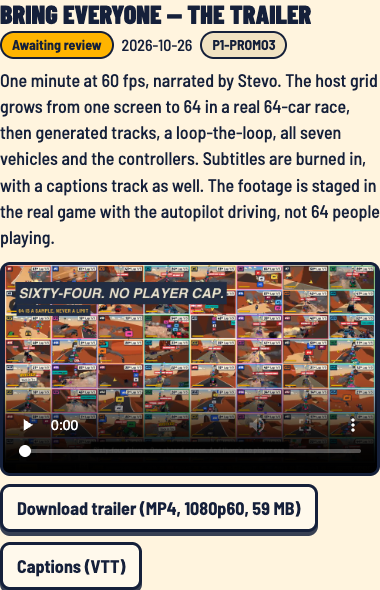
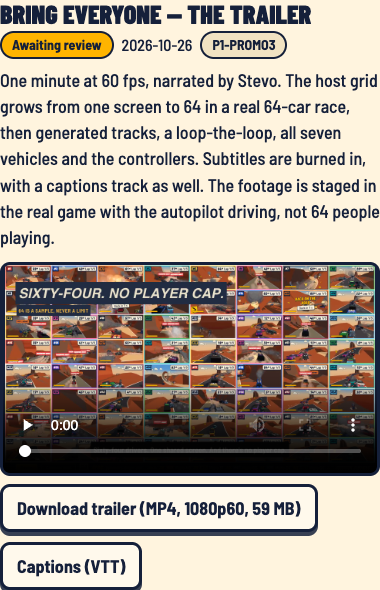
P1-PROMO3 br-r1ma.3 R141: no rival name badges over a race; re-cut trailer
Owner 26 Oct: no name badges floating over the race; derby only, to tell
cars apart in the melee. world.nameplatesOn follows the room's mode, so
only a derby draws nameplates (grid tiles and the arena Overview); race
tiles, practice and replays draw none. Recorded as R141 (amends P1-R13's
nameplate acceptance). The R13 journey checks rings in a derby room via the
real Camera button; the synthetic 1/4/24-tile check asserts none outside a
derby.

Trailer re-cut on the fixed build (grow and race shots recaptured, all else
kept): bring-everyone-stevo-7454d16b.mp4, 1080p60, no repeated frames in
motion. The keyboard insert is a fresh lobby capture served as
jammers.dilger.dev instead of a journey frame showing 127.0.0.1.

Agent: RedLeopard

Changed region(s): [[0.0, 0.4271, 0.9842, 0.7627], [0.6947, 0.7322, 0.7237, 0.7627]]

diff --git a/art/ui/poc/index.html b/art/ui/poc/index.html
@@ -47,12 +47,12 @@
       <article data-entry="promo-stevo">
         <h3>Bring everyone — the trailer</h3>
         <p class="why" id="promo-stevo-note">One minute at 60 fps, narrated by Stevo. The host grid grows from one screen to 64 in a real 64-car race, then generated tracks, a loop-the-loop, all seven vehicles and the controllers. Subtitles are burned in, with a captions track as well. The footage is staged in the real game with the autopilot driving, not 64 people playing.</p>
-        <video class="promo-player" controls playsinline preload="none" width="1920" height="1080" poster="./promo/bring-everyone-stevo-a8d821e0.jpg" aria-label="Bring everyone trailer" aria-describedby="promo-stevo-note">
-          <source src="./promo/bring-everyone-stevo-a8d821e0.mp4" type="video/mp4">
-          <track kind="captions" src="./promo/bring-everyone-stevo-a8d821e0.vtt" srclang="en" label="English">
-          <p>Your browser cannot play this video. <a href="./promo/bring-everyone-stevo-a8d821e0.mp4">Download the MP4</a> to watch it.</p>
+        <video class="promo-player" controls playsinline preload="none" width="1920" height="1080" poster="./promo/bring-everyone-stevo-7454d16b.jpg" aria-label="Bring everyone trailer" aria-describedby="promo-stevo-note">
+          <source src="./promo/bring-everyone-stevo-7454d16b.mp4" type="video/mp4">
+          <track kind="captions" src="./promo/bring-everyone-stevo-7454d16b.vtt" srclang="en" label="English">
+          <p>Your browser cannot play this video. <a href="./promo/bring-everyone-stevo-7454d16b.mp4">Download the MP4</a> to watch it.</p>
         </video>
-        <div class="links"><a href="./promo/bring-everyone-stevo-a8d821e0.mp4" download>Download trailer (MP4, 1080p60, 59 MB)</a> <a href="./promo/bring-everyone-stevo-a8d821e0.vtt" download>Captions (VTT)</a></div>
+        <div class="links"><a href="./promo/bring-everyone-stevo-7454d16b.mp4" download>Download trailer (MP4, 1080p60, 59 MB)</a> <a href="./promo/bring-everyone-stevo-7454d16b.vtt" download>Captions (VTT)</a></div>
       </article>
       <article data-entry="promo-picture">
         <h3>Bring everyone — earlier picture draft</h3>

diff --git a/web/host/src/render/world.ts b/web/host/src/render/world.ts
@@ -187,6 +187,9 @@ export class World {
   /** Called with the grid's layout (device pixels) and the device pixel ratio when the tiles move. */
   onLayout: (layout: Layout | null, dpr: number) => void = () => {};
   onNameplates: (points: NameplatePoint[]) => void = () => {};
+  /** Rival nameplates (P1-R13) float only in a derby, to tell cars apart in the melee (R141: no badges
+   *  floating over a race). The room sets it from the round's mode. */
+  nameplatesOn = false;
   private nameplatePoints: NameplatePoint[] = [];
   map: MapRenderer | null = null;
   /** P1-C10: the practice courses (`round/practice`), drawn from each snapshot's practice trailer far from the round's map.
@@ -672,7 +675,7 @@ export class World {
       r.setViewport(0, 0, st.width, st.height);
       this.launchCallouts.fit(this.camera);
       this.backend.render(this.scene, this.camera, this.replayCamera || fly ? undefined : { hazeBeyond: this.overviewDepth });
-      if (!fly) this.nameplates(s, this.camera, { x: 0, y: 0, w: st.width, h: st.height }, 0, -1, overview);
+      if (!fly && this.nameplatesOn) this.nameplates(s, this.camera, { x: 0, y: 0, w: st.width, h: st.height }, 0, -1, overview);
       st.lods = [lod];
     }
     st.frames++;
@@ -777,7 +780,7 @@ export class World {
       }
       this.launchCallouts.fit(cam);
       this.backend.render(this.scene, cam);
-      this.nameplates(s, cam, t, t.seat, i);
+      if (this.nameplatesOn) this.nameplates(s, cam, t, t.seat, i);
       if (mode === 'fp' && i >= 0) {
         // Segmented first person: the rear-view mirror in its strip of the tile (rects are fractions, top-down).
         const M = CAMERA.firstPerson.mirror;

diff --git a/web/host/src/main.ts b/web/host/src/main.ts
@@ -370,6 +370,7 @@ async function boot(): Promise<void> {
     }
     // The page knows the round's phase (the input drawer folds away while racing so it covers no tile).
     document.body.dataset.jjPhase = room.phase;
+    world.nameplatesOn = room.mode === 'derby';
     // In a room the grid's tiles are the seated cars in seat-number order: a car withdrawn by Leave or Sit out stays in
     // the world as scenery but loses its tile, so the grid reflows (G02).
     if (world.tiles?.auto) {

diff --git a/tools/promo/render-stevo.py b/tools/promo/render-stevo.py
@@ -70,6 +70,7 @@ def main():
     ap.add_argument('--roster', type=Path, required=True)
     ap.add_argument('--voice', type=Path, required=True, help='Directory holding promo3-manifest.json and its takes')
     ap.add_argument('--controllers', type=Path, default=Path('/tmp/jj-promo-crowd-reviewed-f3c175d9'))
+    ap.add_argument('--keyboard', type=Path, default=Path('/tmp/jj-promo3-keyboard/controllers-menu.jpg'), help='capture-keyboard.mjs: the host Controllers panel with a keyboard player seated')
     ap.add_argument('--engine', type=Path, default=Path('/tmp/jj-promo-engine.wav'))
     ap.add_argument('--out', type=Path, default=ROOT / 'art/ui/poc/promo')
     ap.add_argument('--name', default='bring-everyone-stevo')
@@ -157,8 +158,8 @@ def main():
 
         # 7. The actual controller pages.
         def controllers(d):
-            for f in ['controller-phone.jpg', 'controller-pad-phone.jpg', 'controller-keyboard.jpg']:
-                seg(f[:-4], args.controllers / f, d / 3, still=True)
+            for name, f in [('phone', args.controllers / 'controller-phone.jpg'), ('pad', args.controllers / 'controller-pad-phone.jpg'), ('keyboard', args.keyboard)]:
+                seg(name, f, d / 3, still=True)
         scene('controllers', controllers, minimum=6.0)
 
         # 8. End card over the full 64-car grid.
@@ -238,7 +239,7 @@ def main():
         'fps': FPS, 'size': [W, H], 'voice': {k: manifest[k] for k in ['canonical_voice_id', 'pack_sha256', 'engine', 'api_cost_usd']},
         'cues': [{'start': round(a, 3), 'end': round(sub_end[s], 3), 'id': s, 'text': scenes[s]['text']} for a, s in sorted(cues)],
         'titles': [{'start': round(a, 3), 'end': round(b, 3), 'title': ti, 'label': la} for a, b, ti, la in titles],
-        'sources': {'grow': grow, 'loop': json.loads((args.loop / 'capture.json').read_text()), 'tracks': tracks, 'roster': sorted(roster), 'controllers': str(args.controllers)},
+        'sources': {'grow': grow, 'loop': json.loads((args.loop / 'capture.json').read_text()), 'tracks': tracks, 'roster': sorted(roster), 'controllers': str(args.controllers), 'keyboard': digest(args.keyboard)},
         'music': 'assets/audio/music/race-2.ogg', 'engine': digest(args.engine),
     }
     (args.out / f'{args.name}-{short}.json').write_text(json.dumps(receipt, indent=2) + '\n')

diff --git a/docs/evidence/P1-PROMO3/self-review.md b/docs/evidence/P1-PROMO3/self-review.md
@@ -4,8 +4,8 @@ br-r1ma.3. Owner direction 25–26 Oct: race-led, the free shared Stevo voice, v
 generated tracks, a loop-the-loop, all seven vehicles, then "dynamically adding screens from 1 all the way to 64,
 stopping at a few tweened, nice points to narrate", "rendered at 60fps with no lag", published on the POC page.
 
-Trailer: `art/ui/poc/promo/bring-everyone-stevo-a8d821e0.mp4` (58.76 s, 1920×1080, H.264 High 60/1 fps, AAC 48 kHz,
-faststart, 61.8 MB), poster `.jpg`, captions `.vtt`, edit receipt `.json`, cadence receipt `-cadence.json`.
+Trailer: `art/ui/poc/promo/bring-everyone-stevo-7454d16b.mp4` (58.76 s, 1920×1080, H.264 High 60/1 fps, AAC 48 kHz,
+faststart, 61.3 MB), poster `.jpg`, captions `.vtt`, edit receipt `.json`, cadence receipt `-cadence.json`.
 Watch: https://jammers-preview.dilger.dev/poc/#g-promo
 
 ## What it shows, and how it was made
@@ -17,7 +17,7 @@ Watch: https://jammers-preview.dilger.dev/poc/#g-promo
 | 24–30 s | Four generated biomes: dirt, bitumen, town, rocks | `capture-tracks.mjs`, `jj procgen --recipe` |
 | 30–36 s | A car carried round a generated loop (the host camera cuts to its side view) | `capture-loop.mjs`, `jj procgen --seed 1 --mix`; asserts the car goes inverted on camera (min up −0.999, frames 389–402) |
 | 36–48 s | All seven vehicles, each named while it drives | `capture-roster60.mjs`, 1920×1080 |
-| 48–54 s | Phone, pad-on-phone and keyboard controller pages | the reviewed P1-PROMO2 inserts |
+| 48–54 s | Phone, pad-on-phone and keyboard controller pages | P1-PROMO2's phone and pad inserts; the keyboard is fresh (`capture-keyboard.mjs`: a real lobby, Keys A seated through its Add button, Host menu → Controllers, served as jammers.dilger.dev) |
 | 54–59 s | End card over the 64-tile grid, jammers.dilger.dev | editor |
 
 Every capture is frame-stepped: 2 sim ticks (120 Hz) and exactly 1/60 s of page clock per frame (`performance.now` is
@@ -63,11 +63,20 @@ over `race-2.ogg` ducked by the voice and the engine lap bed, final −16.2 LUFS
 repeated frames outside the two deliberate stills (controller pages, end card); the detector does drop 223 of 360
 frames over the still section, so it is sensitive. Encoded CRF 20 capped at 11 Mb/s.
 
+## Owner review round 2 (26 Oct)
+
+The owner rejected the floating rival name badges over the race ("NO such badges floating", derby only if at all):
+R141. `world.nameplatesOn` is set from the room's mode and only a derby draws nameplates (grid tiles and the arena
+Overview); race tiles, practice and replays draw none. The R13 identity journey checks the rings in a derby room
+(switching to Grid with the real Camera button) and the synthetic 1/4/24-tile check asserts no nameplates outside a
+derby. Grow and race shots were recaptured on the fixed build (`review/grow-no-nameplates.jpg`), everything else kept.
+Also fixed: the keyboard insert's `127.0.0.1` room address (fresh capture, `review/keyboard-insert.jpg`). The earlier
+`a8d821e0` render is in git history (8633d219).
+
 ## Remaining defects
 
-- br-roit: name-pill leader lines draw outside their tile into an empty grid cell (`pill-lines-leak.jpg`); visible
-  for a few frames while the grid has an empty cell. A host bug, filmed as it is.
-- The keyboard controller insert (from P1-PROMO2) still shows its capture's `127.0.0.1` room address under the QR.
+- br-roit (pill leader lines leaving their tile) no longer shows in a race since R141; it can still occur in a derby grid.
+- The trailer title box covers the top of the Controllers panel's heading in the keyboard insert.
 - The 64-car pack is dense: many takedowns and wrecks in the opening shots. That is the real sim.
 
 ## Not covered
@@ -77,7 +86,7 @@ hardware (this is a staged, frame-stepped capture, not a performance measurement
 
 ## Deployed
 
-Pushed 8633d219; the POC deploy published it. https://jammers-preview.dilger.dev/poc/promo/bring-everyone-stevo-a8d821e0.mp4
-serves HTTP 200 video/mp4, 61,807,616 bytes with byte ranges, SHA-256 a8d821e0c865f6ed…, matching the committed file;
+Round 1: 8633d219 (a8d821e0). Round 2 replaces it with 7454d16b; `deployed/` is re-run after that deploy.
+The public MP4 serves HTTP 200 video/mp4 with byte ranges and the committed file's SHA-256;
 the VTT serves as text/vtt. `node docs/evidence/P1-PROMO3/check-playback.mjs --base https://jammers-preview.dilger.dev`
 passes in Chromium and WebKit at 412×915 and 1920×1080 (`deployed/playback.json`, `deployed/*.png`).

diff --git a/docs/policies/owner-direction-2026-09-29.md b/docs/policies/owner-direction-2026-09-29.md
@@ -161,3 +161,4 @@ From the owner's design-POC review (`docs/playtests/poc-2026-10-03.md`; the refe
 | R138 | **2026-10-16: a complete shift to "arcadey fun".** Where realism and fun disagree, fun wins. Driving feel is authored, not simulated: an arcade car model (responsive turn-in, the car goes where you point it, grip that lets go on purpose — a throttle punch swings a RWD tail out, a slide is held with steer and easy to catch — big readable speed, forgiving at the edges: no flips off a kerb, self-righting). Drivetrain differences stay as character (RWD tail, FWD eager nose), not realism. Rapier keeps collisions, jumps, carnage and debris. The same lean everywhere: big air and landing boosts, takedowns, generous boost, exaggerated wrecks. Supersedes the tyre-model framing of R128/FL04. |
 | R139 | **2026-10-17: CI builds in batches and is fixed forward; no schedule, no nightly.** A push starts a run; the run in progress always finishes, and everything that lands meanwhile folds into one queued run (30 changes during a build get one build together, 32 if two more land). `scripts/ci/run.sh` dispatches by hand (`--full` for every suite). Only if green becomes hard to get: a build-promotion bot that picks which runs to test. A red batch is fixed forward by reasoning through the failure with logic and tests (which change in the batch can cause it, reproduce, fix), not by bisecting or gating; the CI medic owns it and routes clear cases to the author. No merge queue for now. |
 | R140 | **2026-10-25: provider-neutral sessions, solo by default; the next available agent repairs CI.** Claude Code or Codex sessions, with optional OMP GLM sessions in the mix, use the same shared-tree/Agent Mail/Beads workflow. Usually one operator session handles feature work, CI repair and closes; the owner may start a few sessions when useful. A permanent Haiku deploy worker, Claude-only verification and fixed provider/model roles are no longer required. At each bead boundary check failed CI once; the first available agent atomically claims one failed-batch repair, fixes forward, and others continue disjoint work. Preserve focused tests, honest green receipts, dynamic previews and no diagnostic pushes. Handoff defaults to nonblocking batch_pending; green finalization checks once. Supersedes conflicting operating-mode and CI-ownership instructions from October 3/17 and amends R139's permanent CI-medic ownership. |
+| R141 | **2026-10-26: no rival name badges floating over a race.** Other players' nameplates (P1-R13's ring and leader) show only in a derby, to tell cars apart in the melee; race tiles, practice and replays show none. Each seat keeps its colour, pattern and number on the car, its own tile badge and its controller chip. (Amends P1-R13's nameplate acceptance.) |
